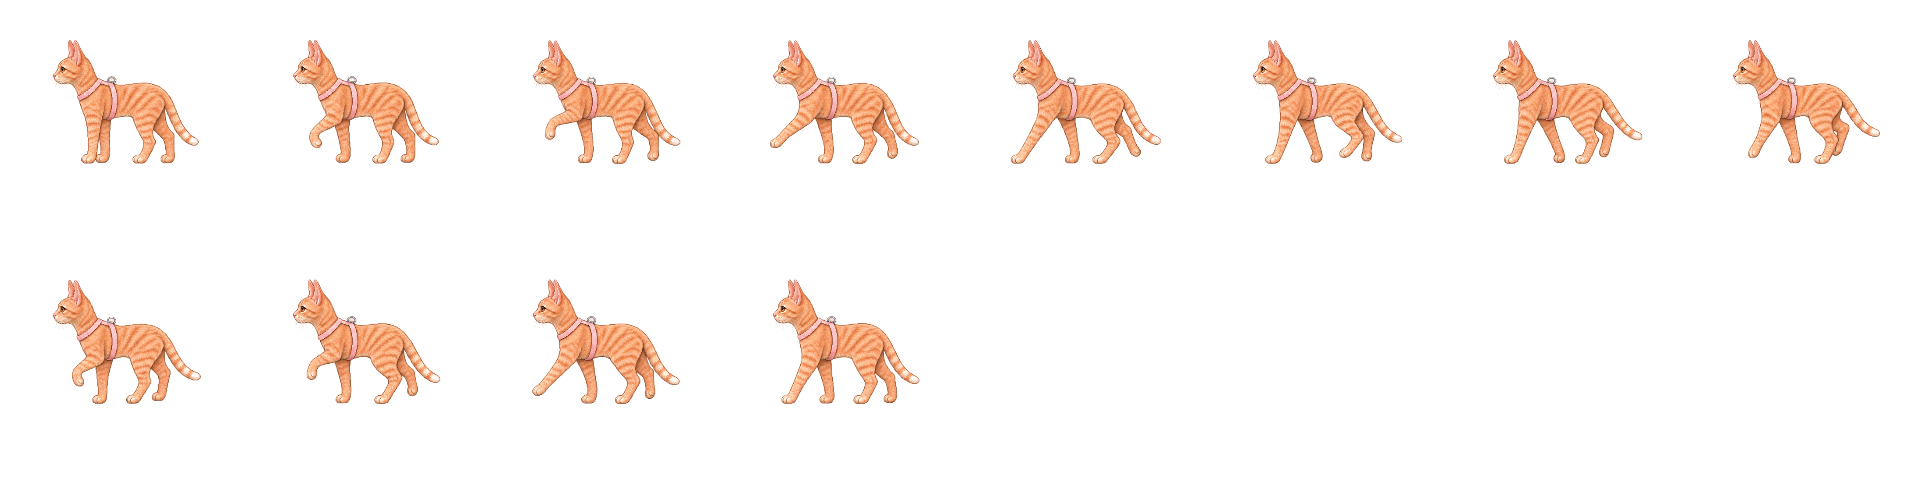
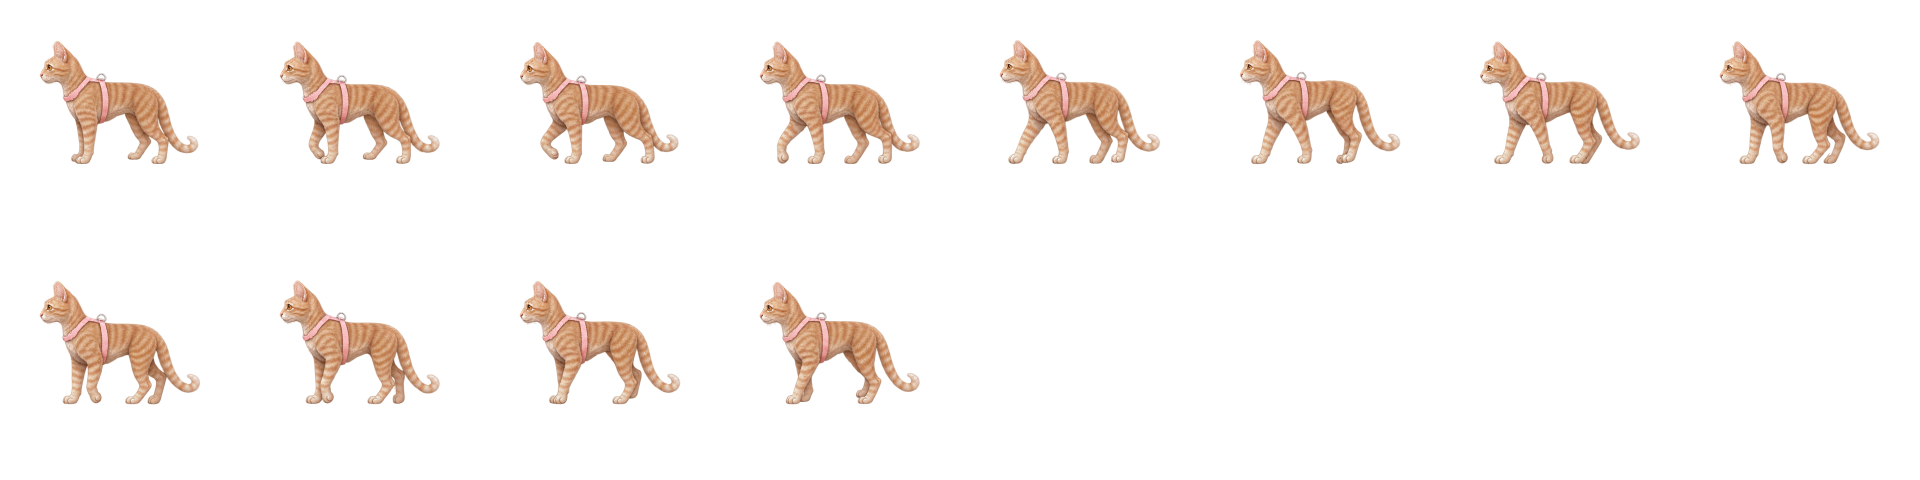
Release Jellybean v0.4.0 with the approved walk

diff --git a/tools/AssetPack/Program.cs b/tools/AssetPack/Program.cs
@@ -11,6 +11,8 @@ using System.Windows.Media.Imaging;
 internal static partial class Program
 {
     private const int Width=240, Height=240, Foot=164, Anchor=120;
+    private const double WalkStride=53.16; // 44.3 logical pixels/second for the 1.2-second source cycle.
+    private static readonly int[] WalkDurations=Enumerable.Repeat(100,12).ToArray();
     private static readonly Dictionary<string,object> Clips=new();
     private static readonly List<object> Calibration=new();
     private static string Root="", Output="";
@@ -31,8 +33,8 @@ internal static partial class Program
             var b=Bounds(views[i]); var s=124/b.Height;
             Save(names[i],new[]{Draw(views[i],(b.Left+b.Right)/2,b.Bottom,s)},new[]{1000});
         }
-        Pack("walk-left",4,3,Enumerable.Repeat(80,12).ToArray());
-        Pack("walk-right",4,3,Enumerable.Repeat(80,12).ToArray());
+        PackApprovedWalk("walk-left","design/walk-transfer/atlas-fur-50-left.png");
+        PackApprovedWalk("walk-right","design/walk-transfer/atlas-fur-50.png");
         Pack("leap-left",3,2,Enumerable.Repeat(100,6).ToArray(),sourceName:"pounce-left");
         Pack("leap-right",3,2,Enumerable.Repeat(100,6).ToArray(),sourceName:"pounce-right");
         Pack("pet",3,2,new[]{380,300,260,280,300,580});
@@ -45,7 +47,7 @@ internal static partial class Program
         {
             var source="leap-"+direction;
             Alias("idle-"+direction,"walk-"+direction,new[]{0},new[]{1000});
-            Alias("stalk-"+direction,"walk-"+direction,Enumerable.Range(0,12).ToArray(),Enumerable.Repeat(80,12).ToArray());
+            Alias("stalk-"+direction,"walk-"+direction,Enumerable.Range(0,12).ToArray(),WalkDurations);
             Alias("crouch-"+direction,source,new[]{2},new[]{1000});
             Alias("takeoff-"+direction,source,new[]{0,1,2},new[]{40,45,45});
             Alias("air-"+direction,source,new[]{3},new[]{320});
@@ -62,12 +64,28 @@ internal static partial class Program
         Alias("window-rest","rest-window",new[]{3,4,5,4},new[]{700,900,700,900});
         Alias("window-rise","rest-window",new[]{3,2,1,0},new[]{120,200,230,230});
         var options=new JsonSerializerOptions{WriteIndented=true};
-        File.WriteAllText(Path.Combine(Output,"animations.json"),JsonSerializer.Serialize(new{width=Width,height=Height,anchor=Anchor,foot=Foot,walkStrideLeft=68.4,walkStrideRight=94.0,clips=Clips},options));
+        File.WriteAllText(Path.Combine(Output,"animations.json"),JsonSerializer.Serialize(new{width=Width,height=Height,anchor=Anchor,foot=Foot,walkStrideLeft=WalkStride,walkStrideRight=WalkStride,clips=Clips},options));
         Directory.CreateDirectory(Path.Combine(Root,"artifacts"));
         File.WriteAllText(Path.Combine(Root,"artifacts/animation-calibration.json"),JsonSerializer.Serialize(Calibration,options));
         ShaderCompiler.Compile(Path.Combine(Root,"src/Jellybean/Shaders/PetMotion.hlsl"),Path.Combine(Output,"pet-motion.ps"));
         MakeIcon(Load("src/Jellybean/Assets/front.png"));
         Console.WriteLine($"Packed {Clips.Count} clips; one anatomical scale per sheet, feet fixed at {Foot}.");
+    }
+
+    private static void PackApprovedWalk(string name,string path)
+    {
+        const int columns=4, cellWidth=480, cellHeight=352;
+        var source=Load(path);
+        if(source.PixelWidth!=columns*cellWidth || source.PixelHeight!=3*cellHeight)
+            throw new InvalidDataException($"Unexpected approved walk atlas size: {path}");
+        var frames=Enumerable.Range(0,WalkDurations.Length).Select(i =>
+        {
+            var rect=new Int32Rect(i%columns*cellWidth,i/columns*cellHeight,cellWidth,cellHeight);
+            // Use the same anchor and floor for every frame so the planted paws keep their motion.
+            return Draw(new CroppedBitmap(source,rect),240,314,.5);
+        }).ToArray();
+        Save(name,frames,WalkDurations,blendMilliseconds:0);
+        Calibration.Add(new { name, scale=.5, referenceHeight=124 });
     }
 
     private static BitmapSource Load(string path)
@@ -245,16 +263,26 @@ internal static partial class Program
         """);
         Console.WriteLine("Whole-cat walk review exported; runtime assets unchanged.");
     }
-    private static void Save(string name,IReadOnlyList<BitmapSource> frames,int[] durations)
+    private static void Save(string name,IReadOnlyList<BitmapSource> frames,int[] durations,int? blendMilliseconds=null)
     {
         var columns=Math.Min(8,frames.Count); var rows=(frames.Count+columns-1)/columns;
         var visual=new DrawingVisual(); using(var dc=visual.RenderOpen()) for(var i=0;i<frames.Count;i++) dc.DrawImage(frames[i],new Rect(i%columns*Width,i/columns*Height,Width,Height));
         var atlas=new RenderTargetBitmap(Width*columns,Height*rows,96,96,PixelFormats.Pbgra32); atlas.Render(visual);
         var encoder=new PngBitmapEncoder(); encoder.Frames.Add(BitmapFrame.Create(atlas)); using(var file=File.Create(Path.Combine(Output,name+".png"))) encoder.Save(file);
-        Clips[name]=new{file=name+".png",columns,frames=Enumerable.Range(0,frames.Count).ToArray(),durations};
+        var indices=Enumerable.Range(0,frames.Count).ToArray();
+        Clips[name]=blendMilliseconds is int blend
+            ? new {file=name+".png",columns,frames=indices,durations,blendMilliseconds=blend}
+            : new {file=name+".png",columns,frames=indices,durations};
     }
     private static void Alias(string name,string source,int[] frames,int[] durations)
-    { var json=JsonSerializer.SerializeToElement(Clips[source]); Clips[name]=new{file=json.GetProperty("file").GetString(),columns=json.GetProperty("columns").GetInt32(),frames,durations}; }
+    {
+        var json=JsonSerializer.SerializeToElement(Clips[source]);
+        var file=json.GetProperty("file").GetString();
+        var columns=json.GetProperty("columns").GetInt32();
+        Clips[name]=json.TryGetProperty("blendMilliseconds",out var blend)
+            ? new {file,columns,frames,durations,blendMilliseconds=blend.GetInt32()}
+            : new {file,columns,frames,durations};
+    }
     private static void MakeIcon(BitmapSource frame)
     {
         var encoder=new PngBitmapEncoder(); encoder.Frames.Add(BitmapFrame.Create(frame)); using var stream=new MemoryStream(); encoder.Save(stream); stream.Position=0;

diff --git a/src/Jellybean/Engine/SpriteCatalog.cs b/src/Jellybean/Engine/SpriteCatalog.cs
@@ -10,7 +10,7 @@ public readonly record struct SpriteSample(BitmapSource From, BitmapSource To, d
 
 public sealed class SpriteCatalog
 {
-    private sealed record Clip(string File,int Columns,int[] Frames, int[] Durations)
+    private sealed record Clip(string File,int Columns,int[] Frames,int[] Durations,int BlendMilliseconds)
     {
         public int Duration { get; } = Durations.Sum();
     }
@@ -35,8 +35,9 @@ public sealed class SpriteCatalog
         {
             var name = entry.Value.GetProperty("file").GetString()!;
             var columns=entry.Value.TryGetProperty("columns",out var columnCount)?columnCount.GetInt32():1;
+            var blend=entry.Value.TryGetProperty("blendMilliseconds",out var blendTime)?blendTime.GetInt32():45;
             _clips[entry.Name] = new Clip(name,columns,entry.Value.GetProperty("frames").EnumerateArray().Select(i=>i.GetInt32()).ToArray(),
-                entry.Value.GetProperty("durations").EnumerateArray().Select(d=>d.GetInt32()).ToArray());
+                entry.Value.GetProperty("durations").EnumerateArray().Select(d=>d.GetInt32()).ToArray(),blend);
         }
     }
 
@@ -52,10 +53,12 @@ public sealed class SpriteCatalog
         {
             if(milliseconds < clip.Durations[i])
             {
+                var frame=LoadFrame(clip,clip.Frames[i]);
+                if(clip.BlendMilliseconds==0 || clip.Frames.Length==1) return new SpriteSample(frame,frame,0);
                 var next=loop?(i+1)%clip.Frames.Length:Math.Min(i+1,clip.Frames.Length-1);
-                var span=Math.Min(45,clip.Durations[i]);
+                var span=Math.Min(clip.BlendMilliseconds,clip.Durations[i]);
                 var blend=Math.Clamp((milliseconds-(clip.Durations[i]-span))/span,0,1);
-                return new SpriteSample(LoadFrame(clip,clip.Frames[i]),LoadFrame(clip,clip.Frames[next]),blend);
+                return new SpriteSample(frame,LoadFrame(clip,clip.Frames[next]),blend);
             }
             milliseconds -= clip.Durations[i];
         }

diff --git a/tests/Jellybean.Smoke/MotionPreview.cs b/tests/Jellybean.Smoke/MotionPreview.cs
@@ -42,7 +42,7 @@ internal static class MotionPreview
             var jumper=Actor(windows); PlaceActor(jumper,support.Left+support.Width/2,support.Top);
             var views=Enumerable.Range(0,6).Select(_=>new PetVisual()).ToArray();
             foreach(var view in views) { view.Measure(new Size(240,240)); view.Arrange(new Rect(0,0,240,240)); view.UpdateLayout(); }
-            var labels=new[]{"完整猫图 · 行走暂回旧版","走到边缘 → 提速 → 跳窗","小落差正常站稳 · 高落差缓冲","拎起后自然下垂 · 跟随惯性轻摆","观察 → 慢慢接近 → 扑击","淡黄色气泡 · 按文本调整大小"};
+            var labels=new[]{"糖豆走路 · 毛色 50","走到边缘 → 提速 → 跳窗","小落差正常站稳 · 高落差缓冲","拎起后自然下垂 · 跟随惯性轻摆","观察 → 慢慢接近 → 扑击","淡黄色气泡 · 按文本调整大小"};
             var bubble=new SpeechBubble(); bool walk=false,jump=false,returnJump=false,low=false,high=false,held=false,released=false,hunt=false;
             const int fps=60;
             for(var n=0;n<fps*9;n++)

diff --git a/src/Jellybean/Engine/PetEngine.cs b/src/Jellybean/Engine/PetEngine.cs
@@ -7,7 +7,7 @@ public enum PetState { Idle, Walk, LieDown, Doze, Rise, Perch, Pet, Stretch, Fal
 
 public sealed class PetEngine
 {
-    public const double WalkCycleSeconds = .96;
+    public const double WalkCycleSeconds = 1.2;
     private const double TakeoffSeconds = .13;
     private readonly double _leftStride, _rightStride;
     public double WalkStride => Facing < 0 ? _leftStride : _rightStride;

diff --git a/CHANGELOG.md b/CHANGELOG.md
@@ -1,4 +1,11 @@
-# 复用现成猫动作 · 2026-11-07
+# 更新记录
+
+## v0.4.0
+
+- 左右行走换用已确认的整帧动作，保留身体轻晃和后爪落地，毛色为 50 档原质感。
+- 行走、潜行和跳窗助跑按实际移动距离推进步态，按每轮约 53 像素的步幅校准。向左时，背带插扣藏在远侧。
+
+## 复用现成猫动作 · 2026-11-07
 
 - 下载并核对 Quaternius 和 Shepardskin 的 CC0 原始猫动作；另记录 Frakassets 四方向橘猫候选及 CC BY 4.0 许可。
 - 从原始 Walking 曲线直接导出 100 张完整猫身、60 fps 的动作底稿，保留四脚轨迹；新增[正常播放、慢放与逐帧对照](design/motion-reference/index.html)。

diff --git a/packaging/使用说明.md b/packaging/使用说明.md
@@ -1,6 +1,8 @@
-# 糖豆 Jellybean 0.3.1
+# 糖豆 Jellybean 0.4.0
 
 Windows 11，x64。完整解压后双击 **Jellybean.exe**，保留旁边的文件和 Assets 文件夹。
+
+从旧版更新时，先从托盘退出旧版，再运行新目录里的 Jellybean.exe。原有设置会自动读取。
 
 - 单击摸摸，双击开启逗猫棒；糖豆会观察、潜行，再快速扑出。再双击或按 Esc 结束。
 - 拖动时身体自然下垂并轻摆，低处放下直接站稳，高处落下才屈腿缓冲。拖到窗沿会停住，窗口移动时跟随，关闭或最小化后落下。

diff --git a/design/walk-transfer/README.md b/design/walk-transfer/README.md
@@ -25,3 +25,5 @@
 [atlas-fur-60-detail.png](atlas-fur-60-detail.png) 保留为旧版对照，毛色为 60 档，使用绘制的短毛纹理和边缘碎毛。
 
 [atlas-fur-50-photo.png](atlas-fur-50-photo.png) 的短毛取自糖豆实拍 8970 中侧腹的局部明暗。毛纹贴着背、侧腹和胸口的走向随身体起伏，保留 50 档底色与原有轮廓。
+
+v0.4.0 使用 [50 档原质感](atlas-fur-50.png) 和[左向图集](atlas-fur-50-left.png)。左向沿用同一步态，背带插扣留在右侧。两边的图集都按统一的脚底线和中心点打包。

diff --git a/README.md b/README.md
@@ -2,7 +2,7 @@
 
 纪念糖豆的 Windows 二维像素桌宠。离线运行，沿用确认的形象和粉色背带。
 
-当前试用版为 **v0.3.1**，沿用完整猫图。后续右向步行已选定[保留身体轻晃的版本](design/walk-transfer/README.md)。[更新记录](CHANGELOG.md)
+当前试用版为 **v0.4.0**。左右走路都换成已确认的整帧步态，使用 50 档原质感毛色。[更新记录](CHANGELOG.md)
 
 ## 使用
 
